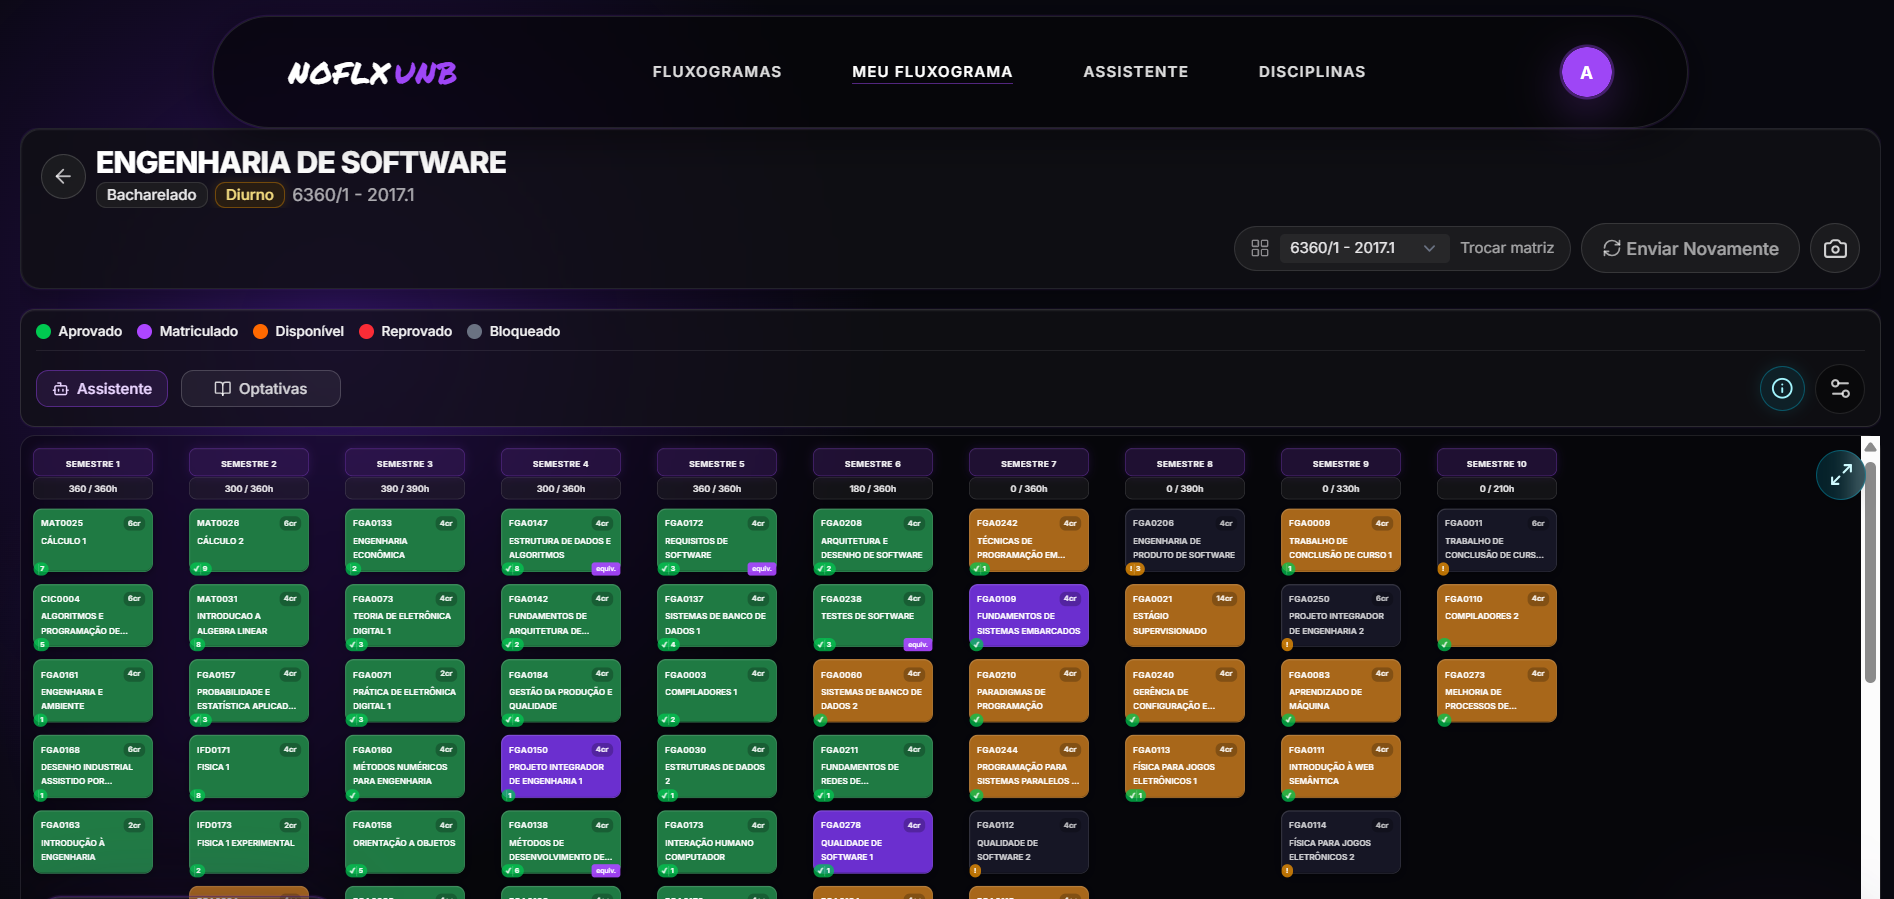
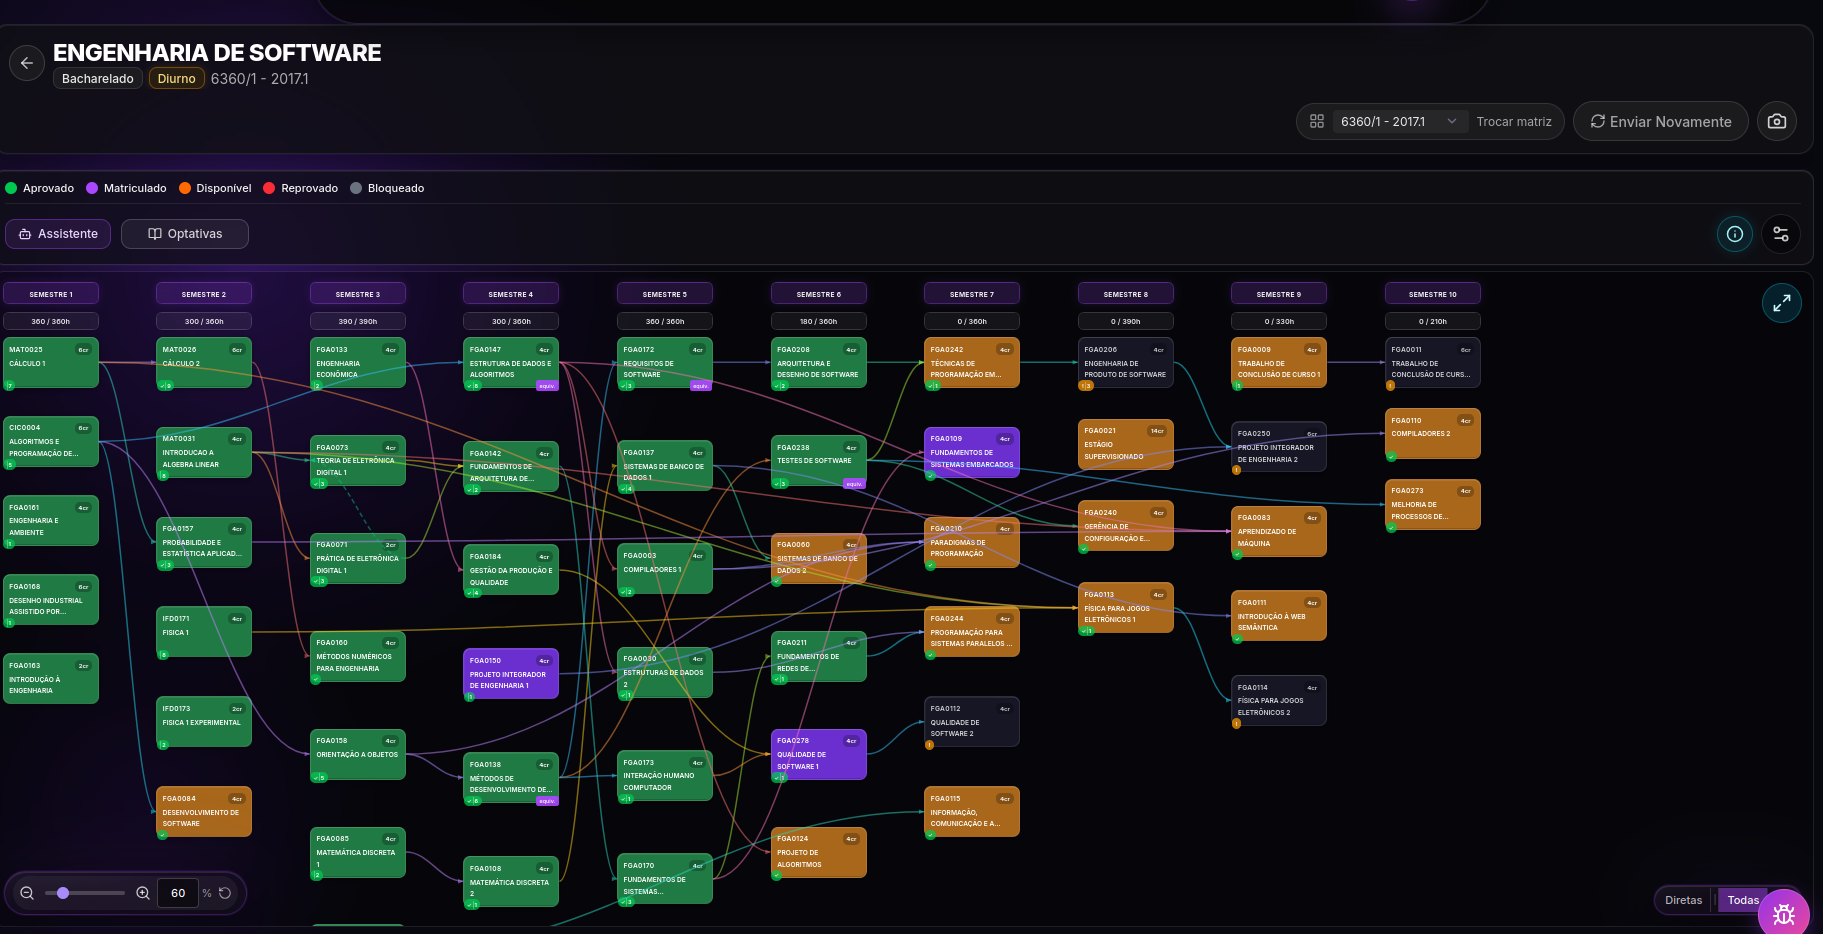
fix: corrige documentação de descrição estruturada

diff --git a/docs/fase_1_v2/descricao.md b/docs/fase_1_v2/descricao.md
@@ -1,0 +1,137 @@
+# Descrição do Software
+
+Esta seção detalha as características operacionais, o ambiente de uso e o perfil dos usuários do [No FLuxo UnB](#ref01), fornecendo a base de contexto para a avaliação de qualidade de software. A descrição seguiu como base as diretrizes de [Ramos (2026)](#ref02), que contêm perguntas base para a descrição do produto.
+
+## Funcionalidades e Tarefas
+
+O produto é composto por aproximadamente **15 funções principais** na interface de usuário (UI):
+
+1. Acesso/Login (via autenticação Google ou criação de conta);
+2. Criar conta;
+3. Fazer *upload* do histórico escolar;
+4. Adicionar o histórico via integração com o SIGAA;
+5. Visualização do fluxograma pessoal;
+6. Visualizar grafo completo do curso com os pré-requisitos de cada disciplina;
+7. Adicionar disciplinas optativas ao fluxograma;
+8. Adaptar o fluxograma para outra matriz curricular;
+9. Visualizar carga horária e IRA;
+10. Simular mudança de curso;
+11. Assistente Darcy (Agente de IA para sanar dúvidas);
+12. Buscar disciplinas (por código ou nome na base de dados da UnB);
+13. Suporte;
+14. Buscar fluxogramas de outros cursos;
+15. Simular mudança de curso (com simulação de integração e matérias equivalentes concluídas);
+
+## Tarefas realizadas
+
+As tarefas primárias que o usuário executa na plataforma são:
+
+* Fazer o *upload* do seu histórico escolar em formato PDF;
+* Visualizar o seu fluxograma recomendado, baseado no histórico realizado e no previsto para o curso;
+* Compreender visualmente os pré-requisitos para a matrícula em matérias futuras;
+* Planejar optativas e simular mudanças de curso;
+* Interagir com a inteligência artificial para buscar disciplinas optativas e pesquisar matérias na base de dados da UnB.
+
+<p align="center">Figura 1 – Interface inicial da plataforma No Fluxo UNB.</p>
+
+![](../assets/fase1/home.png)
+
+<p align="center">Fonte: Do autor (2026).</p>
+
+---
+
+## Funções Alvo da Avaliação
+
+Considerando o escopo do projeto, a avaliação de qualidade concentrará seus esforços nos módulos de maior impacto na experiência do usuário e na integridade dos dados, descritos a seguir:
+
+* **Módulo Meu Fluxograma:** Este componente centraliza uma alta densidade de informações visuais e conexões topológicas (grafos). Devido à sua complexidade estrutural, torna-se um ponto crítico para a validação de critérios de usabilidade, inteligibilidade e acessibilidade, exigindo uma análise minuciosa para garantir que a carga cognitiva do usuário não seja afetada negativamente.
+
+<p align="center">Figura 2 – Interface do módulo Meu Fluxograma.</p>
+
+![](../assets/fase1/meu-fluxo.png)
+
+<p align="center">Fonte: Do autor (2026).</p>
+
+* **Módulo de Importação de Histórico (Upload/SIGAA):** Representa a principal porta de entrada de dados do sistema. A avaliação dedicará atenção especial à eficiência do processamento do arquivo PDF e à robustez da integração com o SIGAA, validando o tratamento de erros e a integridade das informações importadas.
+
+<p align="center">Figura 3 – Interface de importação de histórico acadêmico.</p>
+
+![](../assets/fase1/up-load-historico.png)
+
+<p align="center">Fonte: Do autor (2026).</p>
+
+* **Módulo Assistente Darcy AI:** Por se tratar de um agente de inteligência artificial generativa, este módulo requer atenção dedicada no que tange à conformidade e confiabilidade das respostas, avaliando a precisão do processamento de linguagem natural (PLN) no domínio das regras acadêmicas da UnB.
+
+<p align="center">Figura 4 – Interface do Assistente Darcy AI.</p>
+
+![](../assets/fase1/assistente-virtual.png)
+
+<p align="center">Fonte: Do autor (2026).</p>
+
+---
+
+## Janelas de interação de dados com o usuário que o produto possui
+
+O sistema possui, em média, **5 janelas principais** de interação direta (entrada e saída de dados):
+
+1. Modal de *Upload* de Histórico (PDF);
+2. Modal de Autenticação/Integração com o SIGAA;
+3. Janela de Chat com o Assistente Darcy AI;
+4. Janela/Modal de detalhamento de uma disciplina e seus requisitos;
+5. Barra de busca e filtros na listagem de cursos.
+
+## Usuários e Ambiente
+
+O público-alvo principal é composto pelos **estudantes de graduação da Universidade de Brasília (UnB)**.
+
+O produto será inserido em um **ambiente acadêmico online de uso cotidiano**. Trata-se de uma aplicação web responsiva operada sob demanda, que é acessada remotamente, de onde o estudante estiver, por meio de navegadores em desktops, tablets ou smartphones.
+
+### Nível de conhecimento exigido dos usuários em relação à informática
+
+**Básico.** É necessário apenas que o usuário saiba utilizar um navegador web, fazer login no sistema e realizar o envio (*upload*) de um arquivo PDF.
+
+### Nível de conhecimento exigido dos usuários em relação ao domínio da aplicação em si
+
+**Básico a Intermediário.** O usuário precisa compreender minimamente o ecossistema acadêmico da UnB (conceitos como pré-requisitos, créditos e matérias optativas). A interface busca apresentar as informações de forma clara, contudo, a densidade visual dos grafos pode exigir um esforço inicial de adaptação para determinados grupos de usuários.
+
+---
+
+## Aspectos Técnicos e de Avaliação
+
+### Quais são os principais componentes sob avaliação?
+
+A arquitetura do software objeto desta avaliação divide-se nos seguintes componentes estruturais:
+
+* **Módulo de Entrada de Dados:** Interfaces gráficas de autenticação, login e envio de arquivos;
+* **Módulo de Processamento de Regras:** Motor lógico responsável pelo cruzamento das regras acadêmicas da universidade com os dados extraídos do histórico;
+* **Módulo de Renderização (Dashboard UI):** Interface web responsável pelo desenho dinâmico do fluxo e mapeamento das cores topológicas.
+
+### Existe massa de dados disponível para a avaliação (dados-exemplos para agilizar)?
+
+**Sim.** O banco de dados do sistema já está populado com as matrizes curriculares de **518 cursos** da UnB. Para a validação, serão utilizados arquivos PDF de históricos escolares anonimizados ou fictícios no padrão emitido pelo SIGAA, viabilizando os testes de processamento e interface de forma segura e ágil.
+
+### Quais são os requisitos de hardware e software para executar o produto?
+
+* **Requisitos de Software:** Um navegador web moderno e atualizado (Google Chrome, Mozilla Firefox, Microsoft Edge, Safari, etc.).
+* **Requisitos de Hardware:** Dispositivo básico (computador, tablet ou smartphone) com tela capaz de exibir a interface gráfica e acesso contínuo a uma conexão estável de internet, dado que o processamento principal ocorre no lado do servidor.
+
+---
+
+## Referências
+
+<a id="ref01"></a>NO FLUXO UNB. **Plataforma de acompanhamento e planejamento de fluxo acadêmico**. Versão 1.0. Brasília: Crianex, 2026. Disponível em: [https://no-fluxo.crianex.com/](https://no-fluxo.crianex.com/). Acesso em: 5 jun. 2026.
+
+<a id="ref02"></a>RAMOS, Cristiane Soares. **Processo de Avaliação de Produto de Software**. Brasília: Universidade de Brasília, Faculdade do Gama, 2025. 21 slides. Material de aula da disciplina FGA0278 - Qualidade de Software 1. [link para o slide](../assets/referencia/slide_processo_avaliacao.pdf)
+
+## Declaração do uso de IA
+
+Eu, [Ana Luiza](https://github.com/Ana-Luiza-SC), declaro que utilizei a inteligência artificial Gemini para correções na estrutura textual e gramatical, sendo utilizada apenas na etapa final da produção do texto.
+
+## Histórico de versão
+
+| Versão | Data | Descrição | Autor |
+|---|---|---|---|
+| 1.0 | 12/05/26 | Escrita do conteúdo do documento | Ana Luiza |
+| 1.1 | 12/05/26 | Criação da página inicial | Camila Careli |
+| 1.2 | 12/05/26 | Revisão do conteúdo | Camila Careli |
+| 1.3 | 05/05/26 | Adaptação do conteúdo para seguir a referência escolhida e realizar correções no conteúdo | Ana Luiza |